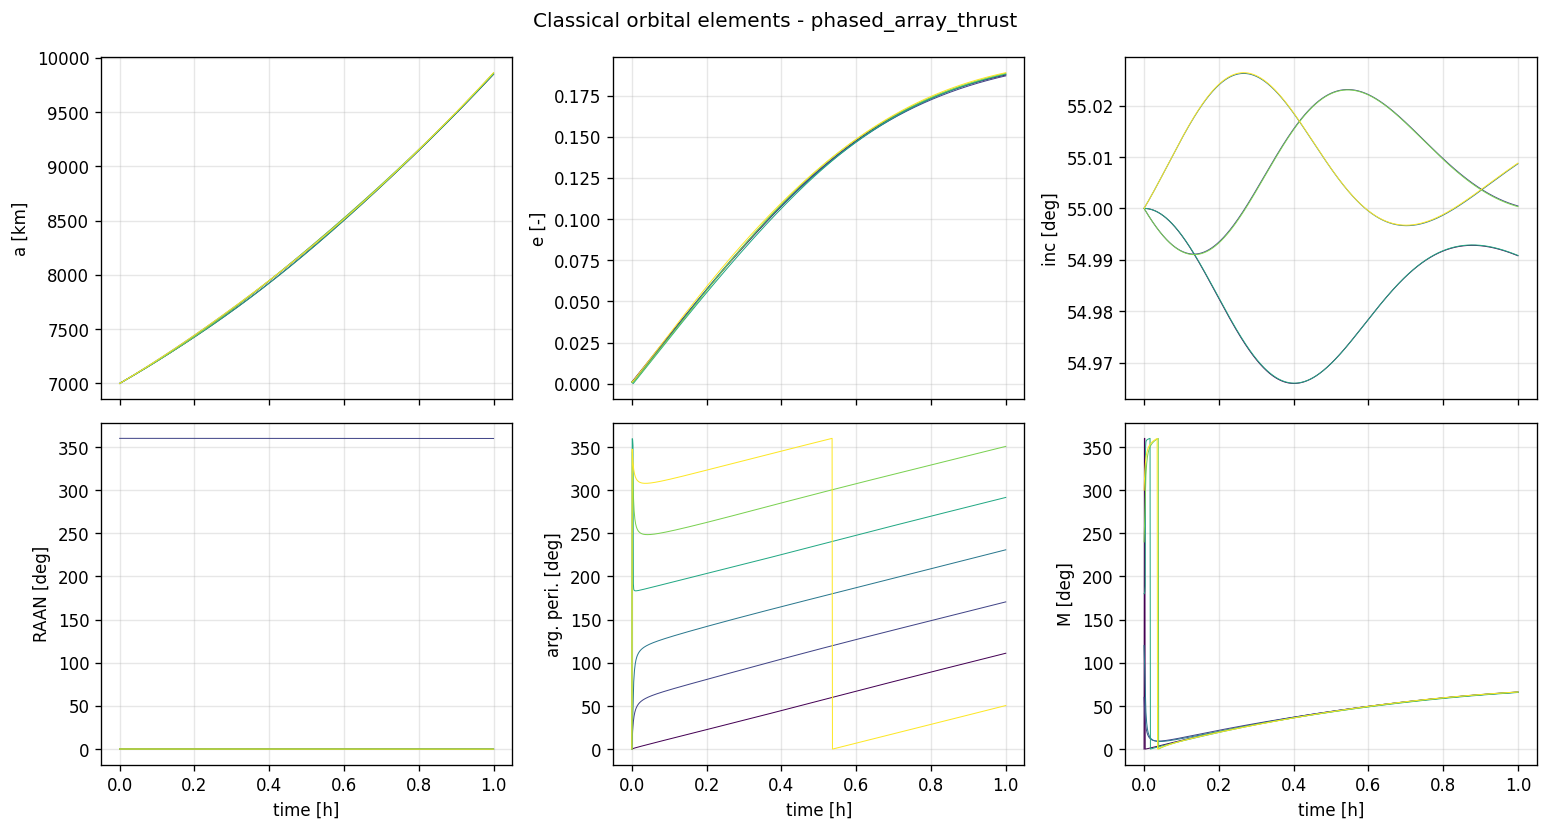
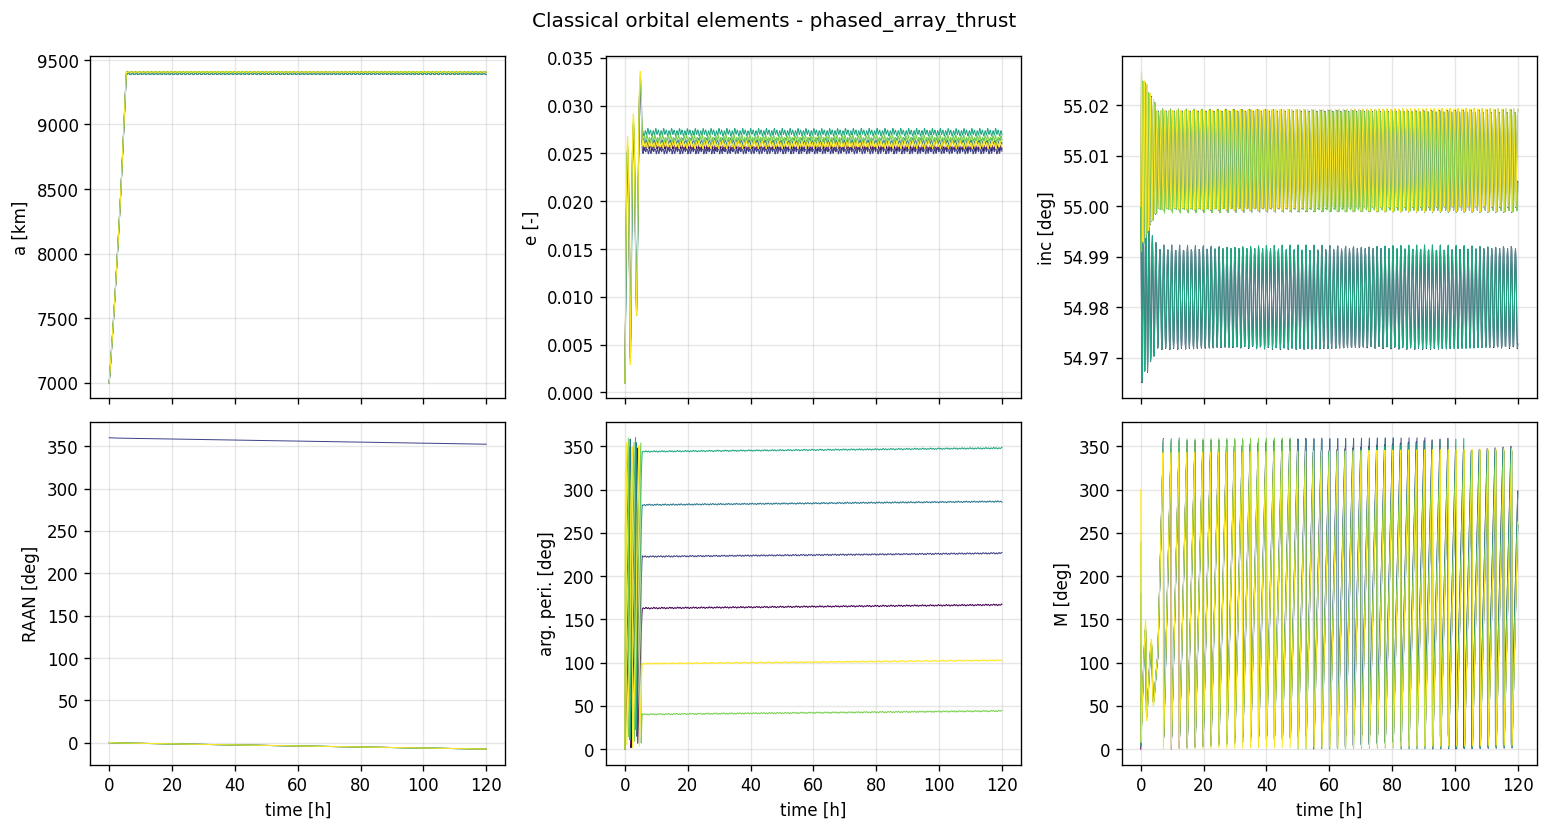
scenarios

diff --git a/scenarios/phased_array_thrust.py b/scenarios/phased_array_thrust.py
@@ -7,13 +7,13 @@ from pathlib import Path
 
 import numpy as np
 
-from constants import MIN_TO_SEC, POSITION_SLICE, VELOCITY_SLICE, MASS_INDEX
+from constants import DAY_TO_SEC, POSITION_SLICE, VELOCITY_SLICE, MASS_INDEX
 from plots import summary
 from sim import Satellite, Simulator, Thruster
 
 NAME = Path(__file__).stem
-DURATION = 60 * MIN_TO_SEC
 THROTTLE = 1.0
+DURATION = DAY_TO_SEC
 
 
 def tangential_thrust(t, state):
@@ -26,7 +26,7 @@ def tangential_thrust(t, state):
 
 def run(show=True):
     phases = [0, 60, 120, 180, 240, 300]
-    thruster = Thruster(max_thrust=30, min_thrust=0.01, isp=1500.0)
+    thruster = Thruster(max_thrust=5, min_thrust=0.01, isp=1000.0)
     sats = [Satellite.from_elements(
         elements=(7000.0, 0.001, np.deg2rad(55.0), 0.0, 0.0, np.deg2rad(phase)),
         mass=100.0, area=1.0, cd=2.2, name=f"sat_{i}",
